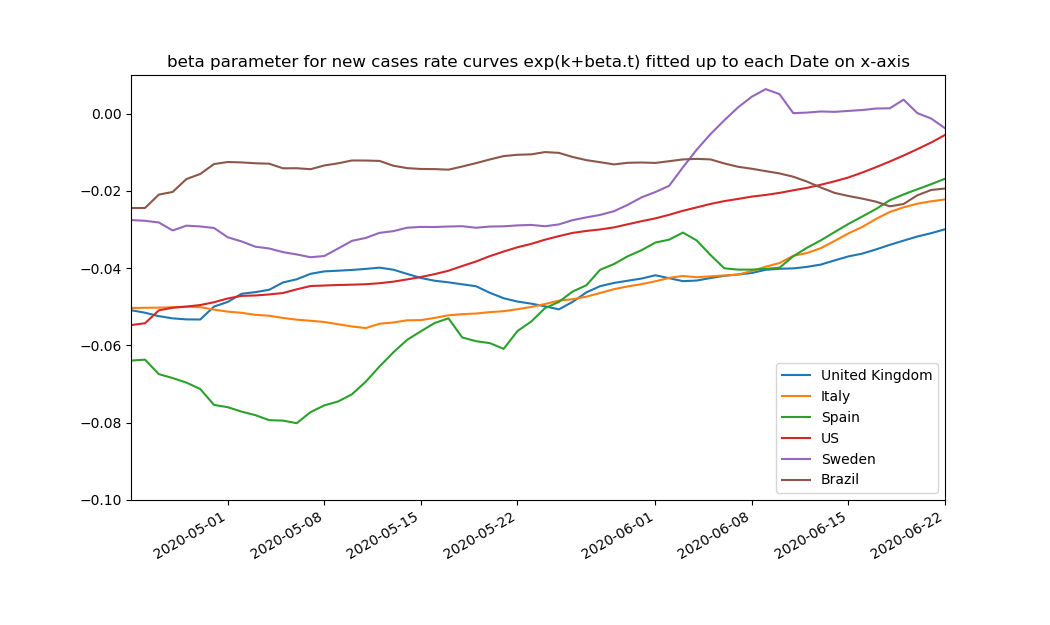
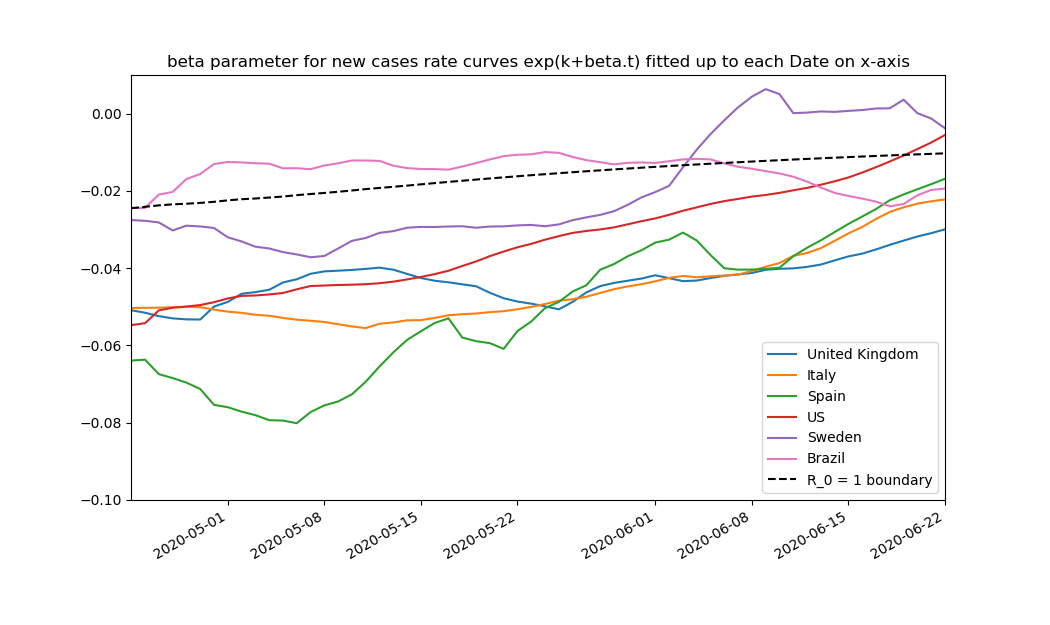
added R_0 = 1 line to compare_beta_new_cases_growth plot to show level at which new cases is constant in absolute terms (i.e. reproductive ratio of 1)

diff --git a/COVID19.py b/COVID19.py
@@ -887,33 +887,39 @@ if __name__ == "__main__":
     #====================== plot evolution of beta parameters across countries
     country_list = ['United Kingdom','Italy','Spain','US','Sweden','Brazil']
 
-    summary_dict = compare_new_cases_rate_beta(country_list=country_list, last_n_days=60)
+    beta_n_days = 60
+    
+    #first check beta threshold at which new cases stay constant in absolute terms
+    #(this is the R_0=1 line)
+    summary_dict2 = compare_new_cases_rate_beta_test(country_list=country_list, last_n_days=beta_n_days)
+    test_beta_df = pd.DataFrame()
+    for country in country_list:
+        cSeries = summary_dict2[country]['beta']; cSeries.name=country
+        test_beta_df = pd.concat([test_beta_df,cSeries], axis=1)
+    test_beta_df = test_beta_df.sort_index()     
+    #test_beta_df.plot(figsize=(10.5,6.25),ylim=(-0.1,0.0), title = 
+    #             'TEST beta parameter had new cases stayed constant in absolute terms')    
+
+    summary_dict = compare_new_cases_rate_beta(country_list=country_list, last_n_days=beta_n_days)
     beta_df = pd.DataFrame()
     for country in country_list:
         cSeries = summary_dict[country]['beta']; cSeries.name=country
         beta_df = pd.concat([beta_df,cSeries], axis=1)
-    beta_df = beta_df.sort_index()     
+    testSeries = test_beta_df.mean(axis=1)
+    testSeries.name='R_0 = 1 boundary'
+    beta_df = pd.concat([beta_df,testSeries], axis=1)
+    beta_df = beta_df.sort_index()
+    colors_list=['#1f77b4', '#ff7f0e', '#2ca02c', '#d62728', '#9467bd', '#e377c2', 'black']
+    styles_list=['-','-','-','-','-','-','--']
     ax = beta_df.plot(figsize=(10.5,6.25),ylim=(-0.1,0.01), title = 
-                 'beta parameter for new cases rate curves exp(k+beta.t) fitted up to each Date on x-axis')
+                 'beta parameter for new cases rate curves exp(k+beta.t) fitted up to each Date on x-axis', 
+                 color=colors_list, style=styles_list)
     plt.savefig(image_path+'compare_beta_new_cases_growth.png')
     plt.show()
     #====================== 
-    
-        
-    '''
-    #test extent fitted beta parameter would have been negative had new cases stayed constant in absolute terms
-    country_list = ['United Kingdom','Italy','Spain','US','Sweden','Brazil'] #, 'Germany']
-    summary_dict2 = compare_new_cases_rate_beta_test(country_list=country_list, last_n_days=20)
-    beta_df = pd.DataFrame()
-    for country in country_list:
-        cSeries = summary_dict2[country]['beta']; cSeries.name=country
-        beta_df = pd.concat([beta_df,cSeries], axis=1)
-    beta_df = beta_df.sort_index()     
-    beta_df.plot(figsize=(10.5,6.25),ylim=(-0.1,0.0), title = 
-                 'TEST beta parameter had new cases stayed constant in absolute terms')
-    '''
-    
 
+    colors = plt.rcParams["axes.prop_cycle"].by_key()["color"]
+                
 
     #restore orginal plot density parameters
     plt.rcParams["figure.dpi"] = original_DPI 
